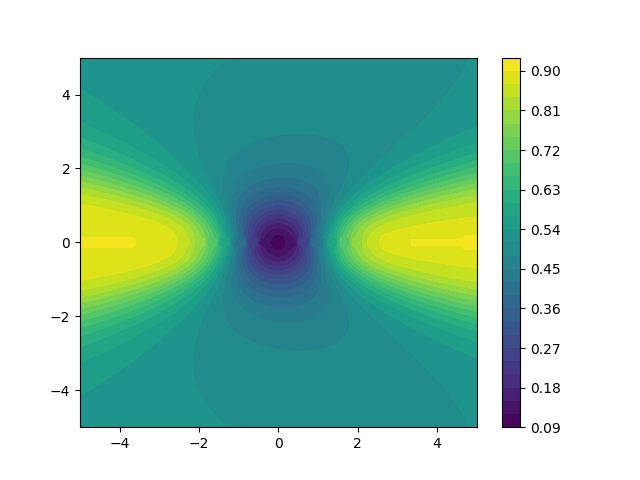
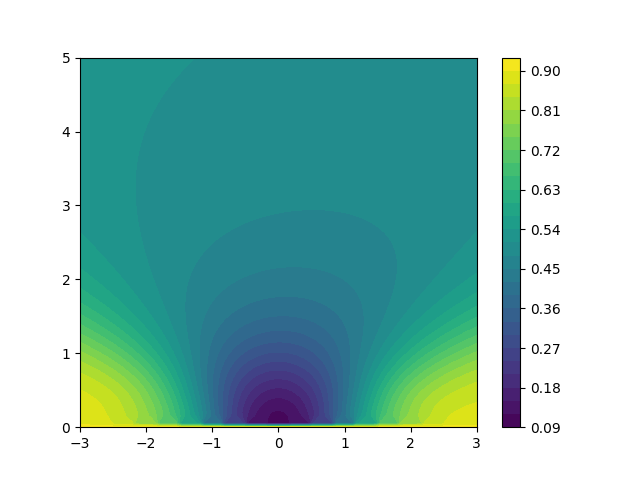
updating range for optimization to match what's in the paper

diff --git a/comparison-memo.py b/comparison-memo.py
@@ -270,8 +270,8 @@ for form in ["positive", "negative"]:
             sigmas = []
             mus = []
             mses = []
-            mu_grid = np.linspace(-5, 5, 100)
-            sig_grid = np.linspace(-5, 5, 100)
+            mu_grid = np.linspace(-3, 3, 100)
+            sig_grid = np.linspace(0, 5, 100)
             mus, sigs = np.meshgrid(mu_grid,sig_grid)
             grid=np.array([mus.flatten(),sigs.flatten()]).T
             print(empirical_prob)
